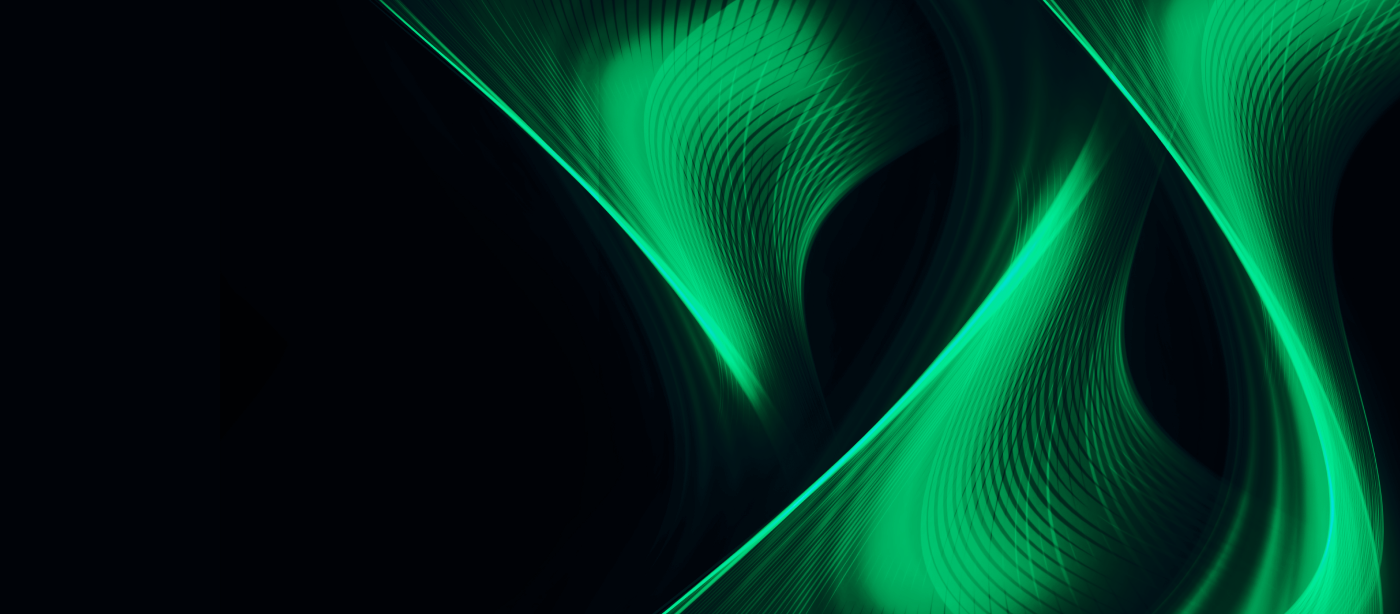
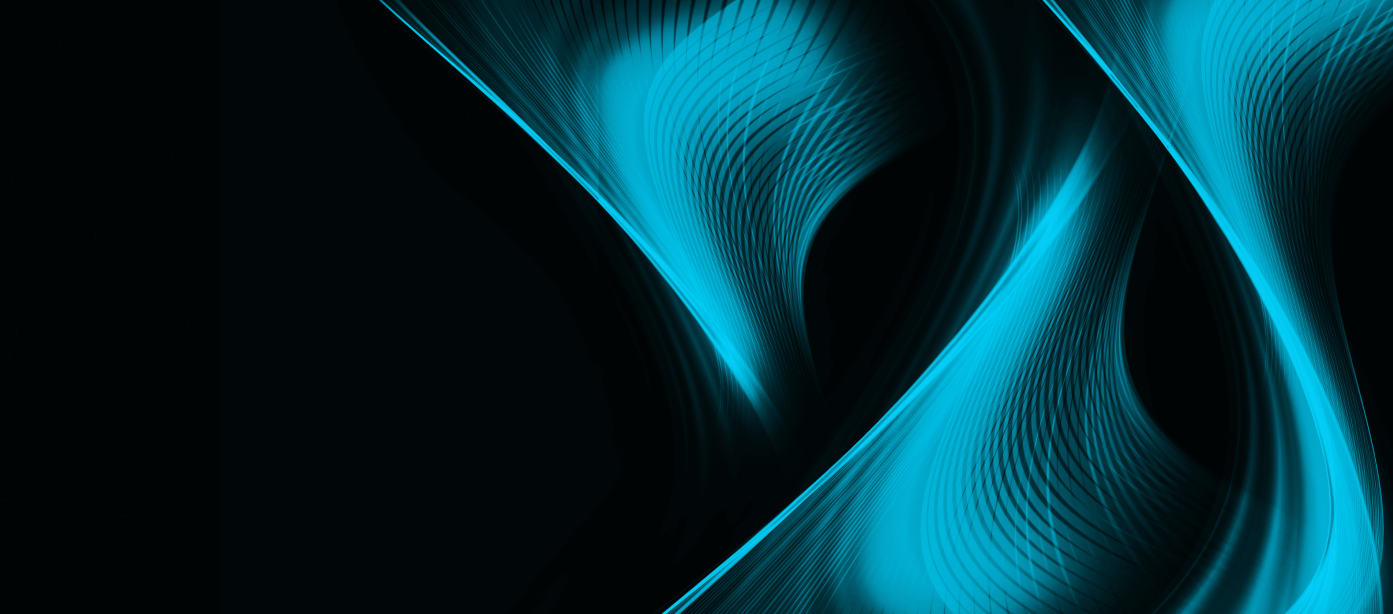
color changed to blue

diff --git a/src/app/assets/css/app.css b/src/app/assets/css/app.css
@@ -1,10 +1,10 @@
 :root {
-    --primary: #04FCA3;
+    --primary: #72F4FA;
     --black: #070A0B;
     --white: #F1F4F8;
     --gray-600: #919aa7;
     --gray-800: #79828B;
-    --btn-primary-hover: #00d386;
+    --btn-primary-hover: #59dbe2;
 }
 
 html,
@@ -220,8 +220,8 @@ a:hover {
 
 
 .cookieModal .form-check-input:checked {
-    background-color: #00a76a;
-    border-color: #00a76a;
+    background-color: #167a7f;
+    border-color: #167a7f;
 }
 
 .cookieModal .form-switch .form-check-input:focus {
@@ -234,8 +234,8 @@ a:hover {
 }
 
 .cookieModal .form-check-input:focus {
-    border-color: #00643f;
-    box-shadow: 0px 0px 3px 2px rgba(13, 253, 141, 0.25);
+    border-color: #16a0a7;
+    box-shadow: 0px 0px 3px 2px rgb(32 146 155 / 25%);
 }
 
 .cookieModal p {
@@ -1036,7 +1036,7 @@ section.herobanner {
 
 
 .bussinessTabssec .wrapTextBox:hover {
-    background-color: #011a11;
+    background-color: #032324;
 }
 
 .wrapTextBox svg {
@@ -1053,7 +1053,7 @@ section.herobanner {
 
 .frame .lines {
     background:
-        linear-gradient(to bottom, #00ffa2 1px, transparent 1px) 0 0, linear-gradient(to top, #00ffa2 1px, transparent 1px) 100% 100%;
+        linear-gradient(to bottom, #72F4FA 1px, transparent 1px) 0 0, linear-gradient(to top, #72F4FA 1px, transparent 1px) 100% 100%;
     background-repeat: no-repeat;
     background-size: 0px 0px;
     position: absolute;
@@ -1066,7 +1066,7 @@ section.herobanner {
 
 .frame .angles {
     background:
-        linear-gradient(to right, #00ffa2 1px, transparent 1px) 0 0, linear-gradient(to bottom, #00ffa2 1px, transparent 1px) 0 0, linear-gradient(to left, #00ffa2 1px, transparent 1px) 100% 100%, linear-gradient(to top, #00ffa2 1px, transparent 1px) 100% 100%;
+        linear-gradient(to right, #72F4FA 1px, transparent 1px) 0 0, linear-gradient(to bottom, #72F4FA 1px, transparent 1px) 0 0, linear-gradient(to left, #72F4FA 1px, transparent 1px) 100% 100%, linear-gradient(to top, #72F4FA 1px, transparent 1px) 100% 100%;
     background-repeat: no-repeat;
     background-size: 15px 15px;
     position: absolute;
@@ -1154,7 +1154,7 @@ section.herobanner {
     font-size: 120px;
     font-weight: 500;
     color: var(--black);
-    -webkit-text-stroke: 1px #04FCA340;
+    -webkit-text-stroke: 1px #04d8fc4a;
     -webkit-text-fill-color: var(--black);
     margin: 0 0 -20px 0;
 }

diff --git a/src/app/page.tsx b/src/app/page.tsx
@@ -33,10 +33,10 @@ const Box = ({ speed }: any) => {
     const yValue = useTransform(
         scrollYProgress,
         [0, 10],
-        [0, 100 * speed]
+        [0, 1 * speed]
     );
     return (
-        <Image src="/img/green-lfi-one.png" alt='LFi' />
+        <Image src="/img/blue-lfi-one.png" alt='LFi' />
     )
 }
 
@@ -435,6 +435,8 @@ export default function Home() {
             </section>
 
 
+
+
             <section className="wrapSection ldaosec">
                 <div className="height100" ref={ldolRef}></div>
                 <Container>
@@ -446,14 +448,15 @@ export default function Home() {
                                         <linearGradient id="gradient" x1="0%" y1="0%" x2="0%" y2="100%">
                                             <stop offset="10%" stop-color="#1F1F1F" />
                                             {/* <stop offset="15%" stop-color="#464646" />  */}
-                                            <stop offset="20%" stop-color="#464646" />
-                                            <stop offset="100%" stop-color="#04FCA3" />
+                                            <stop offset="50%" stop-color="#5EF8FF" />
+                                            <stop offset="100%" stop-color="#72F4FA" />
                                         </linearGradient>
                                     </defs>
                                     <path className="" d="M466 1H31C14.4315 1 1 14.4315 1 31V511C1 527.569 14.4315 541 31 541H466" />
                                     <motion.path className="ldaoPath" stroke="url(#gradient)" d="M466 1H31C14.4315 1 1 14.4315 1 31V511C1 527.569 14.4315 541 31 541H466" style={{ pathLength: ldoborders }} />
 
                                 </svg>
+
 
                                 <svg width="50%" height="100%" className="ldoBorder right" viewBox="0 0 466 542" fill="none" xmlns="http://www.w3.org/2000/svg">
                                     <path className="" d="M0 1H435C451.569 1 465 14.4315 465 31V511C465 527.569 451.569 541 435 541H0" />

diff --git a/src/app/(pages)/ecosystem/page.tsx b/src/app/(pages)/ecosystem/page.tsx
@@ -146,7 +146,7 @@ export default function Ecosystem() {
                                             <stop offset="0%" stop-color="#070A0B" />
                                             {/* <stop offset="15%" stop-color="#464646" />  */}
                                             <stop offset="20%" stop-color="#464646" />
-                                            <stop offset="100%" stop-color="#04FCA3" />
+                                            <stop offset="100%" stop-color="#72F4FA" />
                                         </linearGradient>
                                     </defs>
                                     <path className="" d="M1 0.5V266.5C1 283.069 14.4315 296.5 31 296.5H1070C1086.57 296.5 1100 309.931 1100 326.5V565C1100 581.569 1086.57 595 1070 595H931.289H762.577" />
@@ -160,7 +160,7 @@ export default function Ecosystem() {
                                             <stop offset="0%" stop-color="#070A0B" />
                                             {/* <stop offset="15%" stop-color="#464646" />  */}
                                             <stop offset="20%" stop-color="#464646" />
-                                            <stop offset="100%" stop-color="#04FCA3" />
+                                            <stop offset="100%" stop-color="#72F4FA" />
                                         </linearGradient>
                                     </defs>
                                     <path className="" d="M1 0.5V231.173C1 247.742 14.4315 261.173 31 261.173H369C385.569 261.173 399 274.605 399 291.173V548C399 564.569 385.569 578 369 578H337.902H276.803" />

diff --git a/src/app/(pages)/ldao/page.tsx b/src/app/(pages)/ldao/page.tsx
@@ -66,8 +66,8 @@ export default function MintingMachine() {
                                         <linearGradient id="gradient" x1="0%" y1="0%" x2="0%" y2="100%">
                                             <stop offset="1%" stop-color="#070A0B" />
                                             <stop offset="10%" stop-color="#0f1516" />
-                                            <stop offset="20%" stop-color="#464646" />
-                                            <stop offset="100%" stop-color="#04FCA3" />
+                                            <stop offset="20%" stop-color="#72F4FA" />
+                                            <stop offset="100%" stop-color="#72F4FA" />
                                         </linearGradient>
                                     </defs>
                                     <motion.path stroke="url(#gradient)" className="visionMissionPath" d="M473.5 0V73.5035C473.5 90.072 460.069 103.504 443.5 103.504H31C14.4315 103.504 1 116.935 1 133.504V292.011C1 308.579 14.4315 322.011 31 322.011H921.5C938.069 322.011 951.5 335.442 951.5 352.011V510.124C951.5 526.693 938.069 540.124 921.5 540.124H31C14.4315 540.124 1 553.556 1 570.124V726C1 742.569 14.4315 756 31 756H951.5" style={{ pathLength: scrollvisionProgressBar }} />
